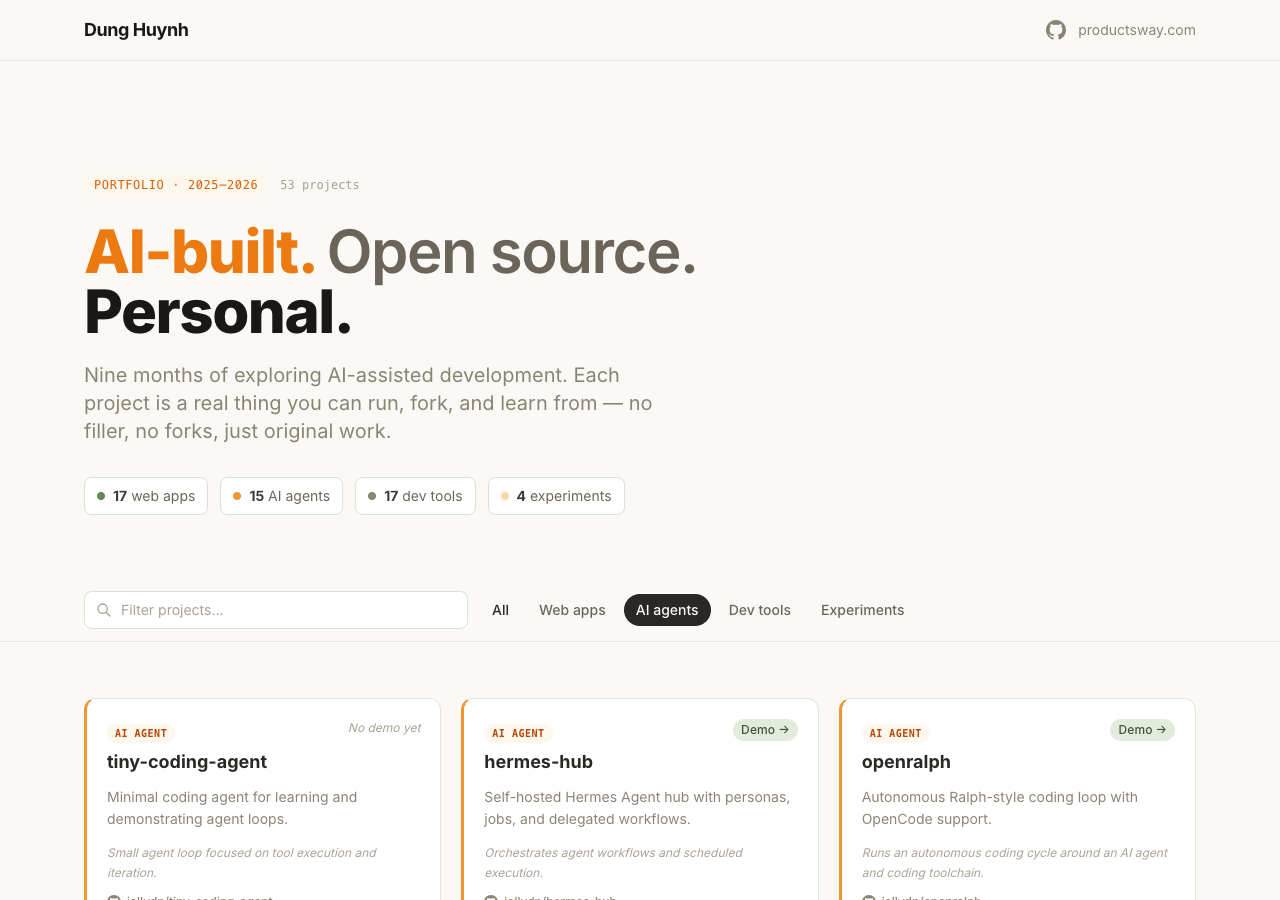
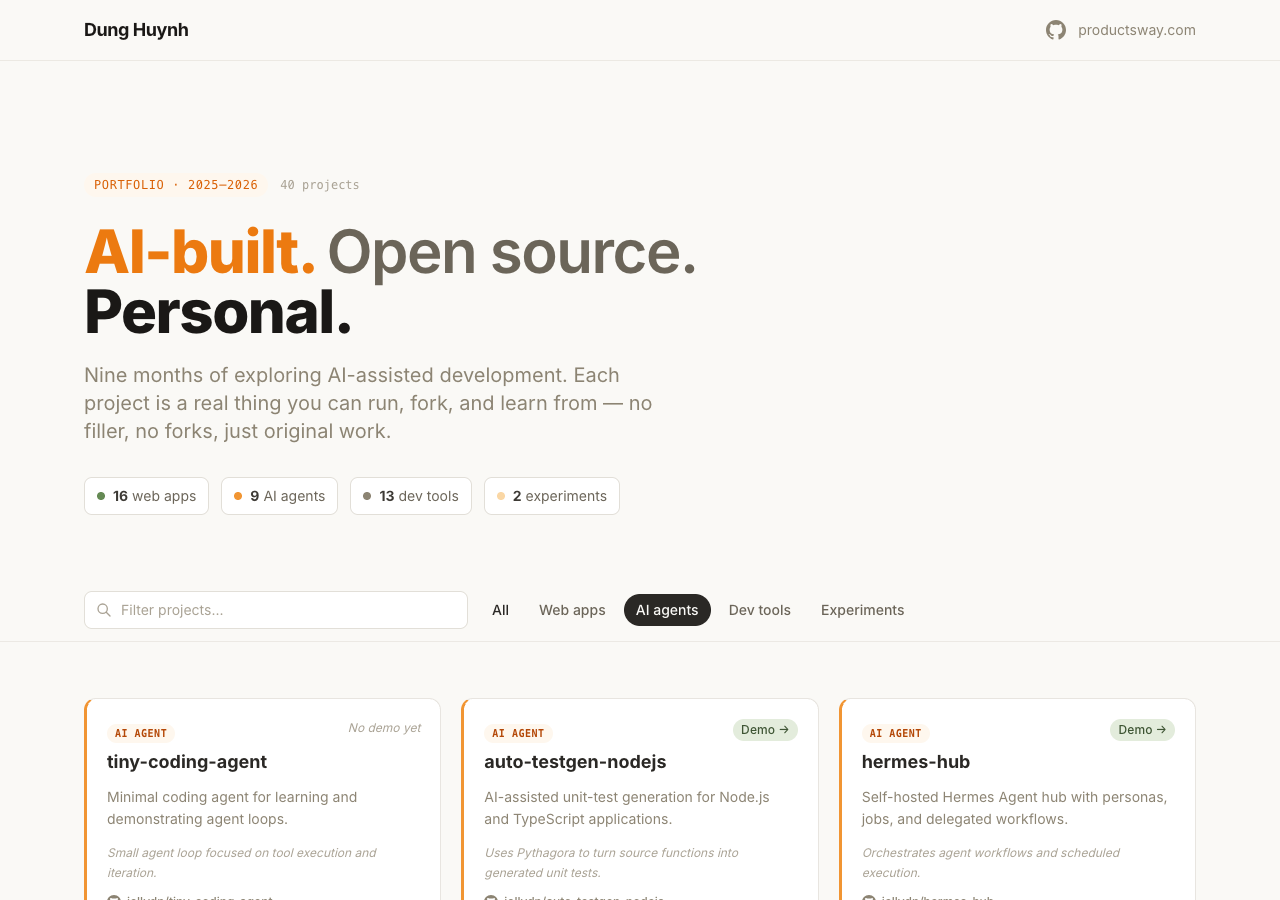
docs(assets): regenerate screenshots for the 40-project/25-demo catalog (#13)
All showcase and README screenshots were captured in the 34-53 project
era and showed stale counts, old stats chips, removed projects (e.g.
rag-learning-guide), and pre-fix copy. Regenerate every asset against
the live site at its current state:

- catalog captures: demo.png (2880x2048 @2x), hero.png, hero-web.jpg,
  mobile-web.jpg, filter-web/ai/dev/experiments.png, search-local.png,
  search-pomodoro.png, search-demo.gif, demo/portfolio.png — all now
  show 40 projects with 16/9/13/2 stats and 25 demo badges
- demo/showcase-home.png, demo/how-it-works.png, demo/features.png —
  full-page captures of the current showcase pages
- og-card.png — rebuilt at 1200x630 with the corrected "40 open-source
  projects" headline and 40/25/16/2 stat row
- HTML sync: update width/height attributes to the real capture
  dimensions (hero-web 1200x4625, mobile-web 520x11509, portfolio
  1280x4596, showcase-home 1280x9886, features 1280x7827) so images
  never break layout, point how-it-works at the new search-pomodoro
  capture (its copy/URL reference the tiny-pomodoro demo), and correct
  the search-local alt to the actual results (tiny-local-ai, devlog)

Validation: OCR pass on every capture (40/25/16-9-13-2 markers, no
stale project names), all img attrs match file dimensions, full guard
suite green (interactions 34, demo-links 75, json-ld 46, theme 20,
parity 40, category config, build).

Generated with Codebuff 🤖

diff --git a/showcase/index.html b/showcase/index.html
@@ -214,7 +214,7 @@
             <span class="browser-frame-dot"></span><span class="browser-frame-dot"></span><span class="browser-frame-dot"></span>
             <span class="browser-frame-url">github.com/jellydn/personal-ai</span>
           </div>
-          <img src="screenshots/demo/portfolio.png" alt="The personal-ai portfolio homepage showing a grid of 40 AI-built project cards" loading="lazy" width="1280" height="5840">
+          <img src="screenshots/demo/portfolio.png" alt="The personal-ai portfolio homepage showing a grid of 40 AI-built project cards" loading="lazy" width="1280" height="4596">
         </div>
         <figcaption class="gallery-caption">The tracker — 40 projects, one searchable grid</figcaption>
       </figure>
@@ -224,7 +224,7 @@
             <span class="browser-frame-dot"></span><span class="browser-frame-dot"></span><span class="browser-frame-dot"></span>
             <span class="browser-frame-url">jellydn.github.io/personal-ai/showcase/</span>
           </div>
-          <img src="screenshots/demo/showcase-home.png" alt="The showcase marketing site homepage" loading="lazy" width="1280" height="3585">
+          <img src="screenshots/demo/showcase-home.png" alt="The showcase marketing site homepage" loading="lazy" width="1280" height="9886">
         </div>
         <figcaption class="gallery-caption">Showcase home — the story in one scroll</figcaption>
       </figure>
@@ -244,7 +244,7 @@
             <span class="browser-frame-dot"></span><span class="browser-frame-dot"></span><span class="browser-frame-dot"></span>
             <span class="browser-frame-url">jellydn.github.io/personal-ai/showcase/features.html</span>
           </div>
-          <img src="screenshots/demo/features.png" alt="The features deep-dive page" loading="lazy" width="1280" height="8264">
+          <img src="screenshots/demo/features.png" alt="The features deep-dive page" loading="lazy" width="1280" height="7827">
         </div>
         <figcaption class="gallery-caption">Features — every capability, explained</figcaption>
       </figure>

diff --git a/showcase/how-it-works.html b/showcase/how-it-works.html
@@ -118,7 +118,7 @@
             <span class="browser-frame-dot"></span><span class="browser-frame-dot"></span><span class="browser-frame-dot"></span>
             <span class="browser-frame-url">jellydn.github.io/personal-ai</span>
           </div>
-          <img src="screenshots/hero-web.jpg" alt="The full project grid of the personal-ai tracker — the whole collection in one glance" fetchpriority="high" width="1200" height="5052">
+          <img src="screenshots/hero-web.jpg" alt="The full project grid of the personal-ai tracker — the whole collection in one glance" fetchpriority="high" width="1200" height="4625">
         </div>
       </div>
     </div>
@@ -175,7 +175,7 @@
             <span class="browser-frame-dot"></span><span class="browser-frame-dot"></span><span class="browser-frame-dot"></span>
             <span class="browser-frame-url">jellydn.github.io/tiny-pomodoro</span>
           </div>
-          <img src="screenshots/search-local.png" alt="Project cards with GitHub links and demo badges, including the tiny-pomodoro demo" loading="lazy" width="1280" height="900">
+          <img src="screenshots/search-pomodoro.png" alt="Project cards with GitHub links and demo badges, including the tiny-pomodoro demo" loading="lazy" width="1280" height="900">
         </div>
       </div>
     </div>
@@ -191,7 +191,7 @@
       <div class="workflow-media">
         <div class="phone-frame">
           <div class="phone-frame-notch"></div>
-          <img src="screenshots/mobile-web.jpg" alt="The personal-ai tracker on a phone, showing the responsive layout" loading="lazy" width="520" height="18306">
+          <img src="screenshots/mobile-web.jpg" alt="The personal-ai tracker on a phone, showing the responsive layout" loading="lazy" width="520" height="11509">
         </div>
       </div>
     </div>

diff --git a/showcase/features.html b/showcase/features.html
@@ -122,7 +122,7 @@
             <span class="browser-frame-dot"></span><span class="browser-frame-dot"></span><span class="browser-frame-dot"></span>
             <span class="browser-frame-url">search: "local"</span>
           </div>
-          <img src="screenshots/search-local.png" alt="Search results narrowing the project grid to local AI projects" fetchpriority="high" width="1280" height="900">
+          <img src="screenshots/search-local.png" alt="Search results narrowing the project grid to local-development projects" fetchpriority="high" width="1280" height="900">
         </div>
       </div>
     </div>
